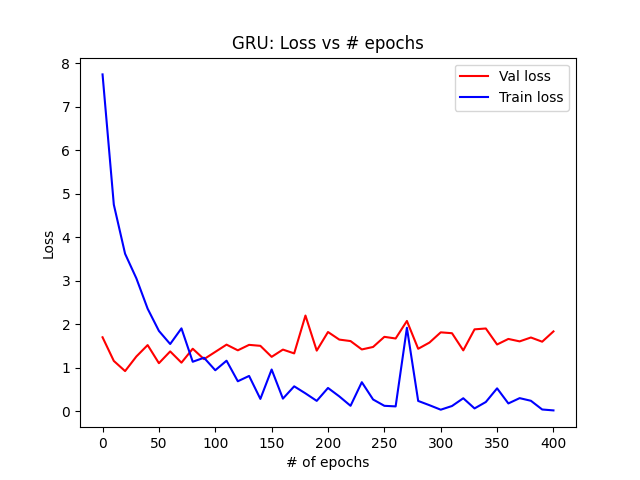
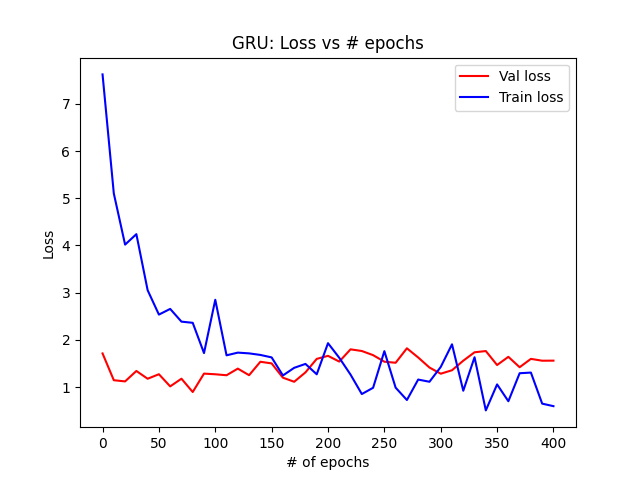
proves paràmetres

diff --git a/LSTM-Music-Genre-Classification-master/LSTM-Music-Genre-Classification-master/GRU.py b/LSTM-Music-Genre-Classification-master/LSTM-Music-Genre-Classification-master/GRU.py
@@ -55,7 +55,7 @@ class LSTM(nn.Module):
         self.lstm = nn.GRU(self.input_dim, self.hidden_dim, self.num_layers, dropout = 0.5) #bias = False) #dropout = 0.5)
 
         # ---------------------batchnormalisation---------------------------------------
-        #self.batch = nn.BatchNorm1d(num_features = self.hidden_dim)
+        self.batch = nn.BatchNorm1d(num_features = self.hidden_dim)
 
         # setup output layer
         self.linear = nn.Linear(self.hidden_dim, output_dim)
@@ -64,6 +64,7 @@ class LSTM(nn.Module):
         # lstm step => then ONLY take the sequence's final timetep to pass into the linear/dense layer
         # Note: lstm_out contains outputs for every step of the sequence we are looping over (for BPTT)
         # but we just need the output of the last step of the sequence, aka lstm_out[-1]
+        
         lstm_out, hidden = self.lstm(input, h)
         logits = self.linear(lstm_out[-1])              # equivalent to return_sequences=False from Keras
         genre_scores = F.log_softmax(logits, dim=1)
@@ -132,7 +133,7 @@ def main():
     loss_function = nn.NLLLoss()     #nn.NLLLoss()  # expects ouputs from LogSoftmax #nn.CrossEntropyLoss()
 
     #----------------------------------------------------------------------------------
-    optimizer = optim.Adam(model.parameters(), lr=0.001) #weight_decay = 0.1
+    optimizer = optim.Adam(model.parameters(), lr=0.001, weight_decay = 0.01) #weight_decay = 0.01
 
     # To keep LSTM stateful between batches, you can set stateful = True, which is not suggested for training
     stateful = False
@@ -192,9 +193,11 @@ def main():
                 train_X[i * batch_size: (i + 1) * batch_size, ],
                 train_Y[i * batch_size: (i + 1) * batch_size, ],
             )
+            #print(X_local_minibatch.size())
             # Reshape input & targets to "match" what the loss_function wants
             X_local_minibatch = X_local_minibatch.permute(1, 0, 2)
-
+            #print(X_local_minibatch.size())
+            #exit()
             # NLLLoss does not expect a one-hot encoded vector as the target, but class indices
             y_local_minibatch = torch.max(y_local_minibatch, 1)[1]
 

diff --git a/LSTM-Music-Genre-Classification-master/LSTM-Music-Genre-Classification-master/rnn.py b/LSTM-Music-Genre-Classification-master/LSTM-Music-Genre-Classification-master/rnn.py
@@ -35,10 +35,10 @@ class LSTM(nn.Module):
         self.num_layers = num_layers
 
         # setup LSTM layers
-        self.lstm = nn.RNN(self.input_dim, self.hidden_dim, self.num_layers, dropout = 0.5)
+        self.lstm = nn.RNN(self.input_dim, self.hidden_dim, self.num_layers, dropout = 0.5) #dropout = 0.5
 
         # ---------------------batchnormalisation---------------------------------------
-        #self.batch = nn.BatchNorm1d(num_features = self.hidden_dim)
+        self.batch = nn.BatchNorm1d(num_features = self.hidden_dim)
 
         # setup output layer
         self.linear = nn.Linear(self.hidden_dim, output_dim)
@@ -116,7 +116,7 @@ def main():
     loss_function = nn.NLLLoss()     #nn.NLLLoss()  # expects ouputs from LogSoftmax #nn.CrossEntropyLoss()
 
     #----------------------------------------------------------------------------------
-    optimizer = optim.Adam(model.parameters(), lr=0.001) #weight_decay = 0.1
+    optimizer = optim.Adam(model.parameters(), lr=0.001, weight_decay = 0.01) #weight_decay = 0.1
 
     # To keep LSTM stateful between batches, you can set stateful = True, which is not suggested for training
     stateful = False
